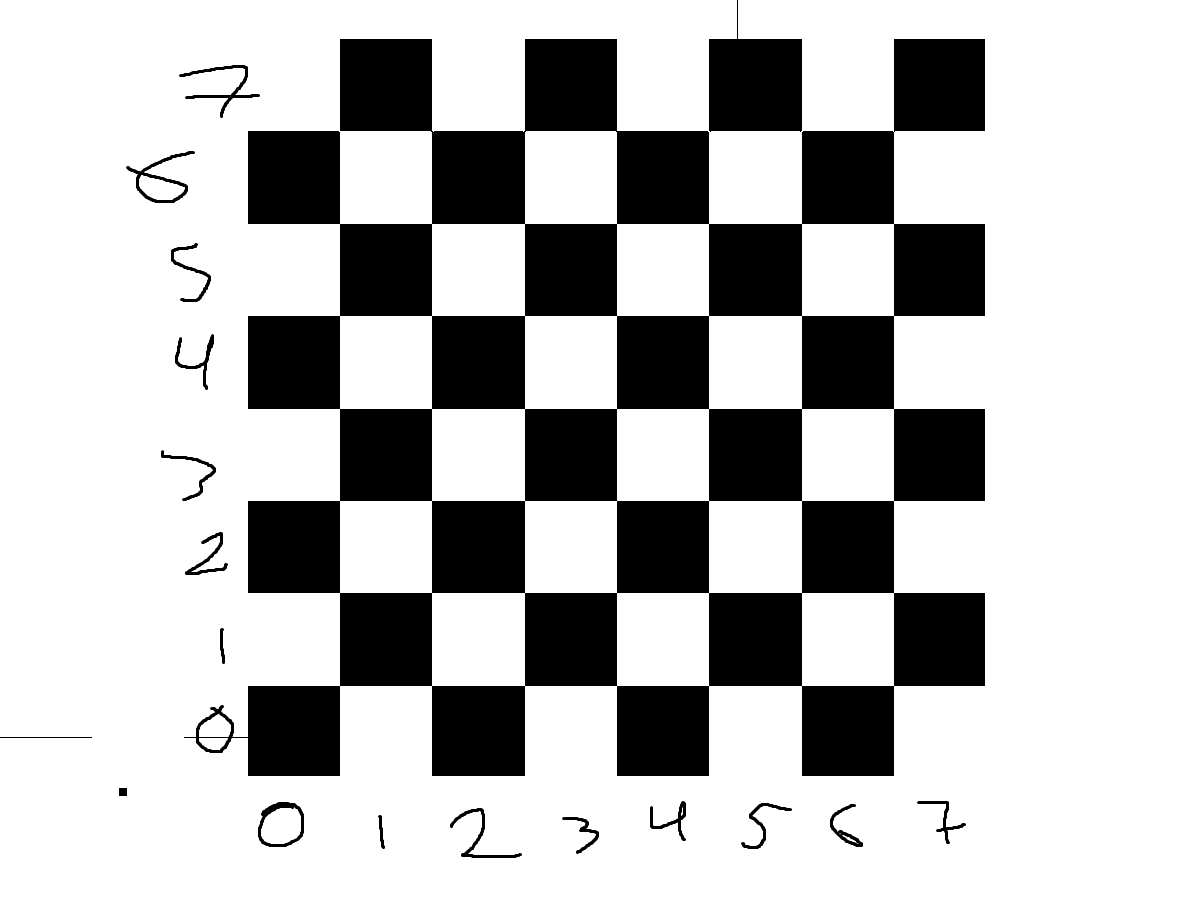
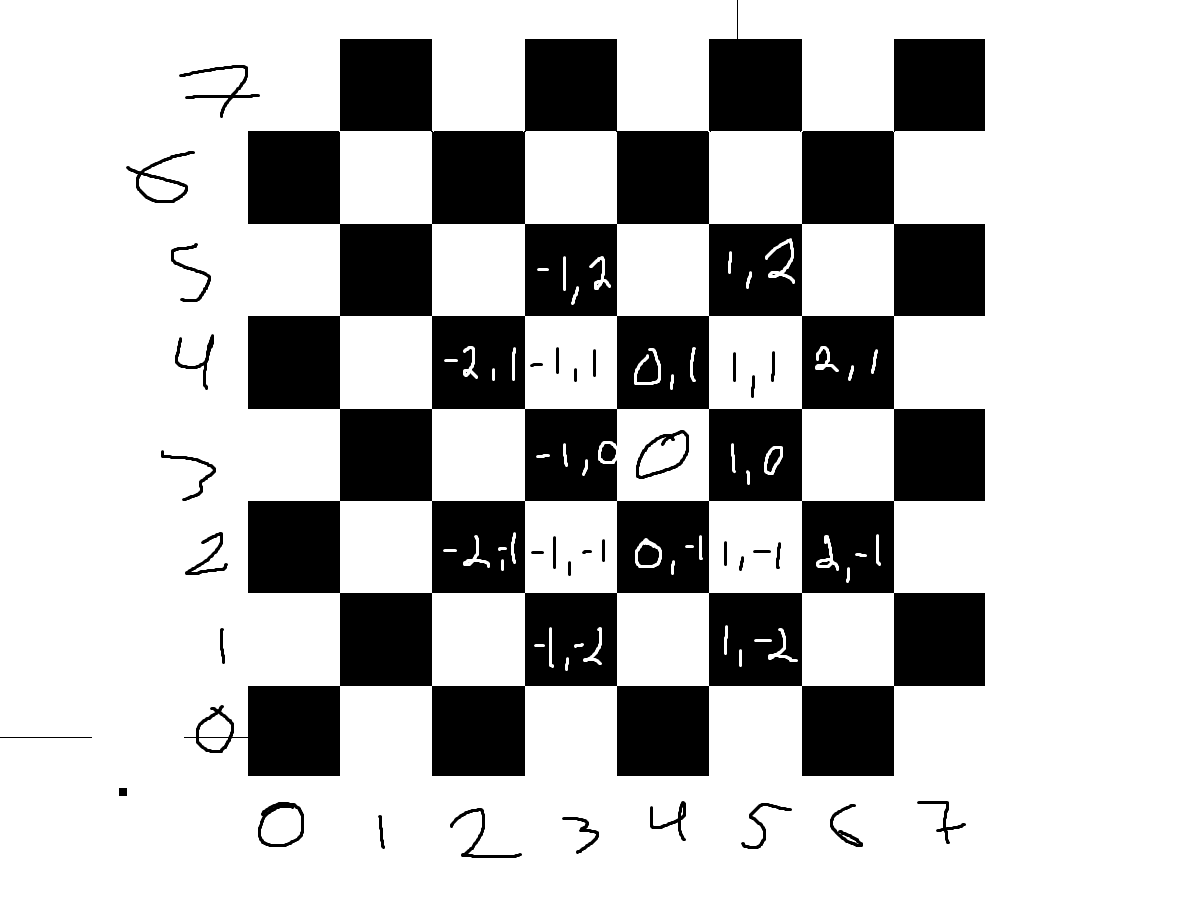
Added offsets for all pieces

diff --git a/core/src/com/mygdx/game/Chess.java b/core/src/com/mygdx/game/Chess.java
@@ -217,20 +217,47 @@ class ChessGame {
 
 	public ArrayList<Square> getPieceOffset(Piece piece) {
 		ArrayList<Square> offsetList = new ArrayList<Square>();
-		int pieceX = piece.getPieceX();
-		int pieceY = piece.getPieceY();
-
+		Square baseOffset[] = new Square[8];
+		baseOffset[0] = new Square(-1, 1);
+		baseOffset[1] = new Square(1, 1);
+		baseOffset[2] = new Square(-1, -1); 
+		baseOffset[3] = new Square(1, -1); // all four diagonals
+		baseOffset[4] = new Square(0, 1);
+		baseOffset[5] = new Square(1, 0);
+		baseOffset[6] = new Square(0, -1);
+		baseOffset[7] = new Square(-1, 0); // four adjacent sides
+		Square knightOffset[] = new Square[8];
+		knightOffset[0] = new Square(-1, 2);
+		knightOffset[1] = new Square(-2, 1);
+		knightOffset[2] = new Square(-2, -1);
+		knightOffset[3] = new Square(-1, -2);
+		knightOffset[4] = new Square(1, -2);
+		knightOffset[5] = new Square(2, -1);
+		knightOffset[6] = new Square(1, 2);
+		knightOffset[7] = new Square(2, 1);
 		switch (piece.getPieceType()) {
-		case 1:
-
+		case 1: // king
+			for (int i = 0; i < 8; i++) {
+				offsetList.add(baseOffset[i]);
+			}
 			break;
-		case 2:
+		case 2: // queen
+			for (int i = 0; i < 8; i++) {
+				offsetList.add(baseOffset[i]);
+			}
 			break;
-		case 3:
+		case 3: // knight
+			
 			break;
-		case 4:
+		case 4: // bishop
+			for (int i = 0; i < 4; i++) {
+				offsetList.add(baseOffset[i]);
+			}
 			break;
-		case 5:
+		case 5: // rook
+			for (int i = 4; i < 8; i++) {
+				offsetList.add(baseOffset[i]);
+			}
 			break;
 		}
 		return offsetList;
@@ -249,7 +276,7 @@ class ChessGame {
 		switch (piece.getPieceType()) {
 		case 0: // if piece == pawn
 			switch (piece.getPieceColour()) { // absolutely dreadful code
-			case 0:
+			case 0: // white pawn
 				if (pieceLookUp(pieceX - 1, pieceY + 1) != null) {
 					temp = new Square(pieceX - 1, pieceY + 1);
 					moveList.add(temp);
@@ -267,7 +294,7 @@ class ChessGame {
 					moveList.add(temp);
 				}
 				break;
-			case 1:
+			case 1: // black pawn
 				if (pieceLookUp(pieceX - 1, pieceY - 1) != null) {
 					temp = new Square(pieceX - 1, pieceY - 1);
 					moveList.add(temp);
@@ -287,21 +314,15 @@ class ChessGame {
 				break;
 			}
 			break;
-		case 1:
-
-			break;
-		case 2:
-
-			break;
-		case 3:
-
-			break;
-		case 4:
-
-			break;
-		case 5:
-
-			break;
+		}
+		if (piece.getPieceType() != 0) {
+			for (int i = 0; i < 8; i++) {
+				Square newMove = new Square(piece.getPieceX() + baseOffset[i].getX(), piece.getPieceY() + baseOffset[i].getY()); // generates move based on offset
+				Piece attackedSquare = pieceLookUp(newMove.getX(), newMove.getY()); // finds if there is a piece at move location
+				if (attackedSquare == null || attackedSquare.getPieceColour() != piece.getPieceColour()) {
+					offsetList.add(newMove);
+				}
+			}
 		}
 		return moveList;
 	}
@@ -325,7 +346,6 @@ public class Chess extends ApplicationAdapter {
 	private SpriteBatch batch;
 
 	private Square projectedSquare = new Square(-100, -100);
-	private Square selectedSquare;
 	private Square selectedMove = null;
 	private Square tempSquare;
 
@@ -405,6 +425,7 @@ public class Chess extends ApplicationAdapter {
 			}
 		}
 		if (moveMade) {
+			moveList = null;
 			selectedPiece = null;
 			selectedMove = null;
 			moveMade = false;
